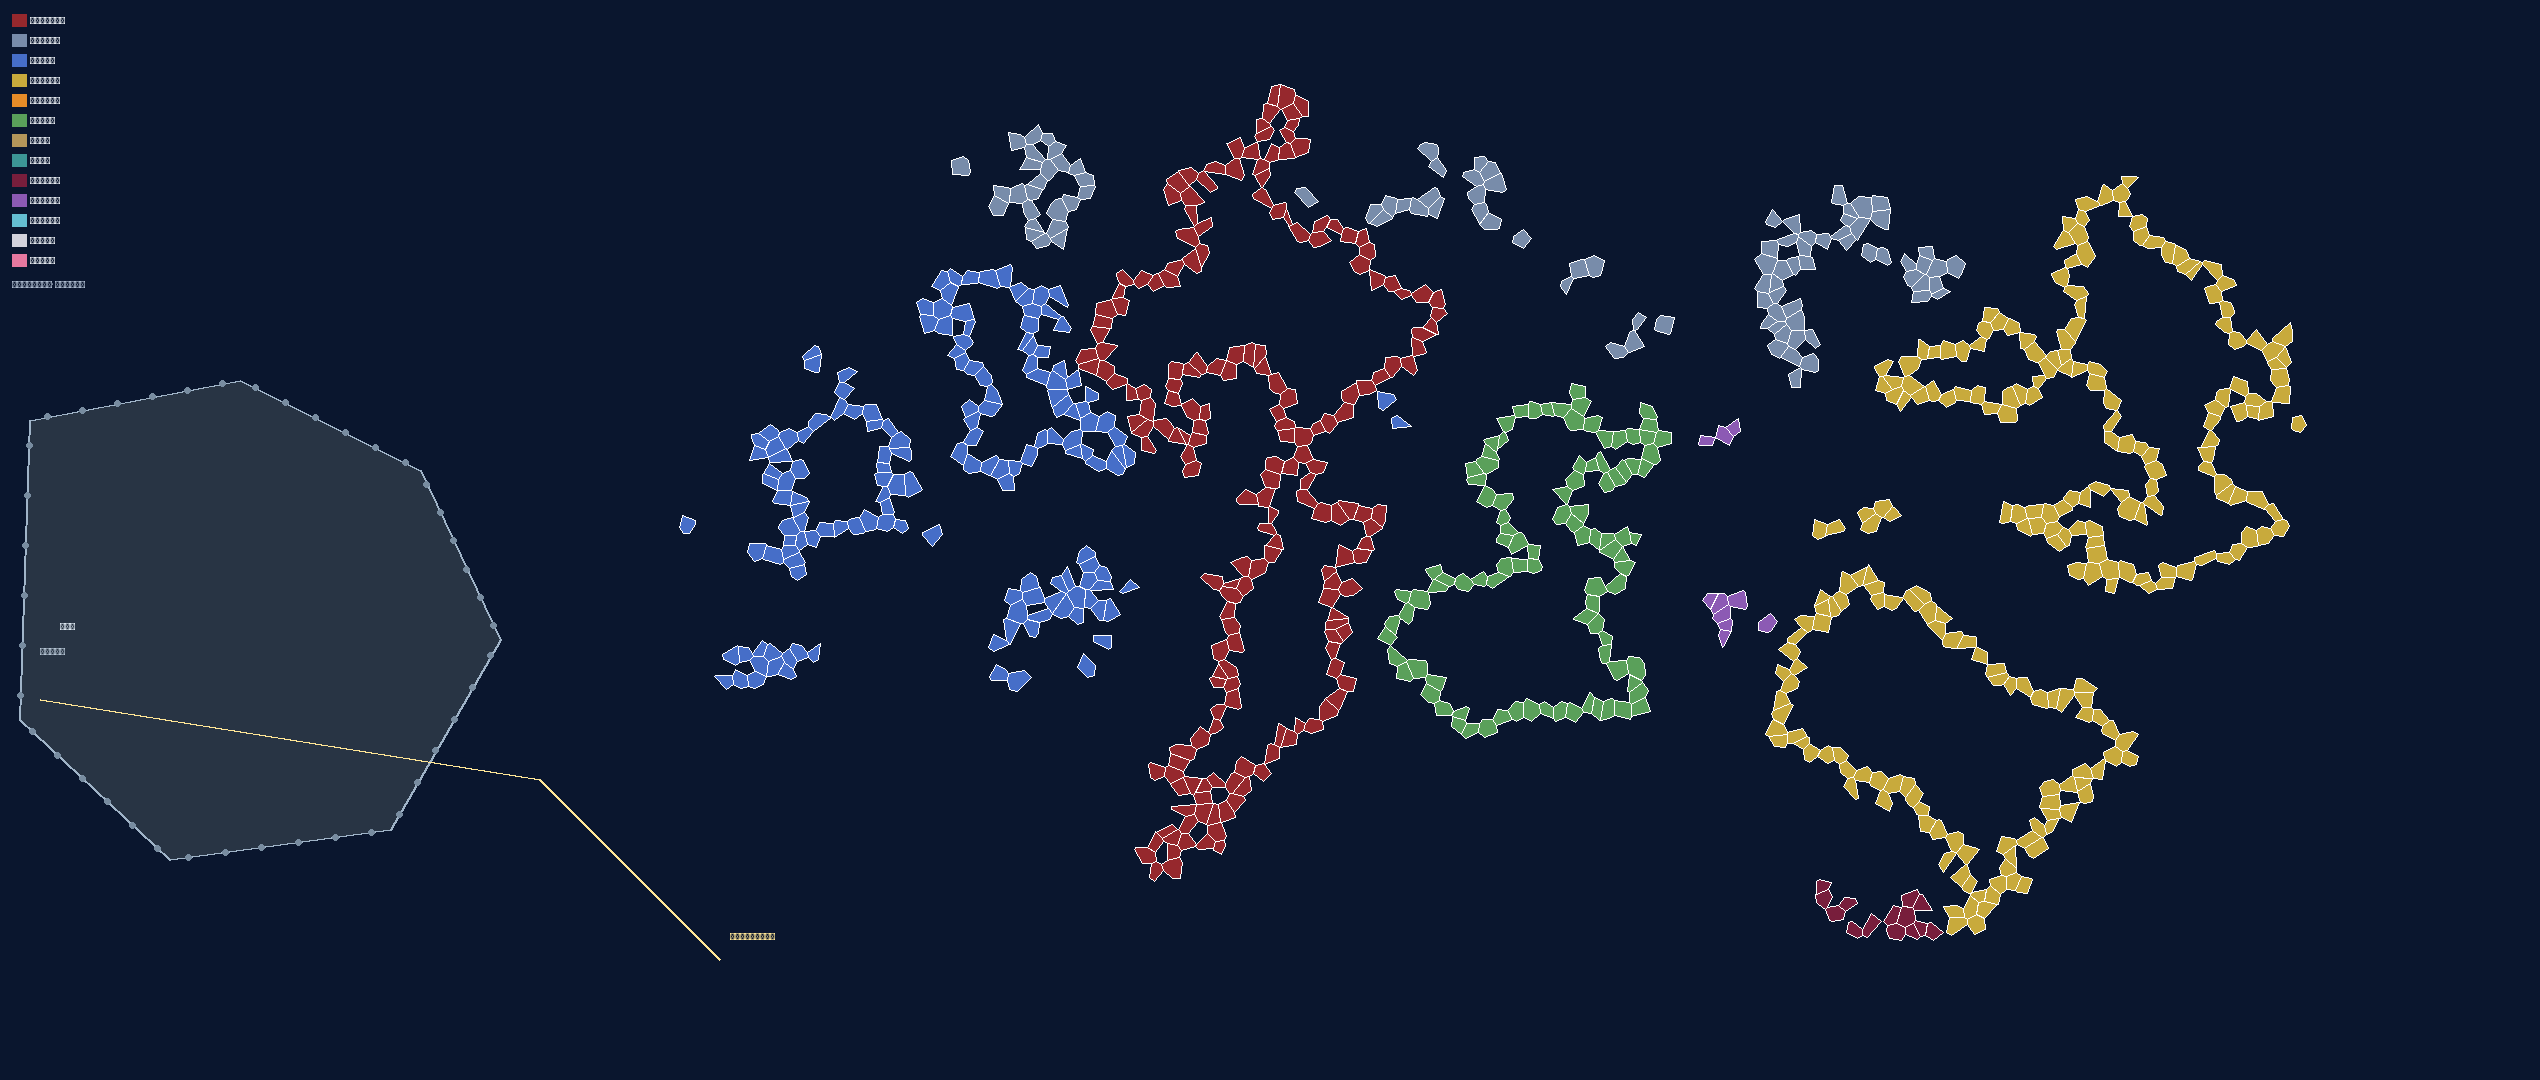
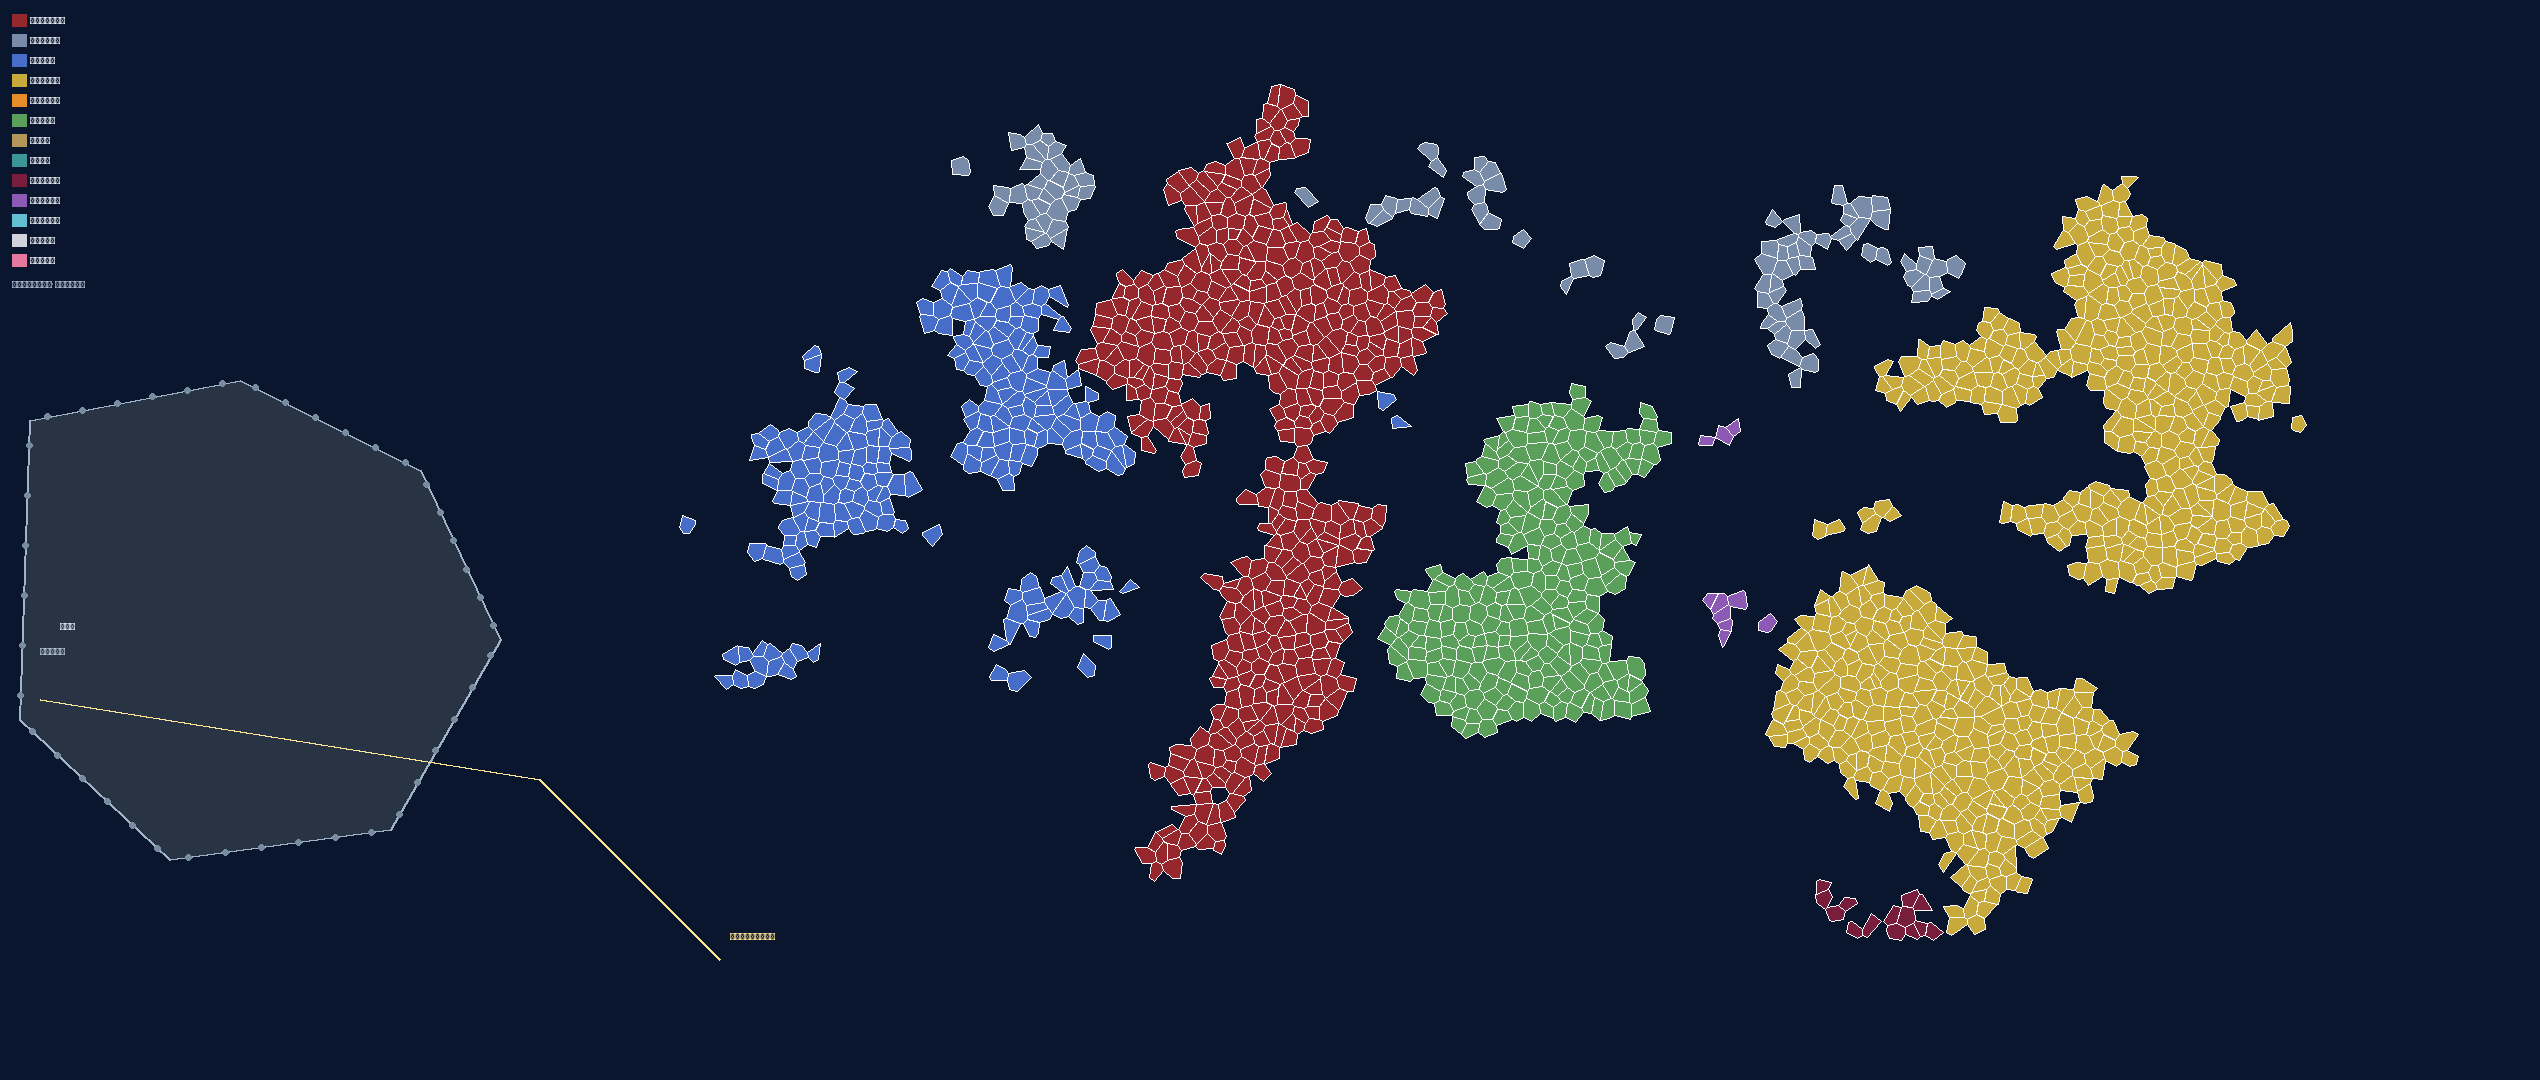
fix: 卡尔特地图重渲染——陆地判定改为海拔h>=20（陆地796→1789格），修复大空心/省份图空白；桌面已更新

diff --git a/grand_strategy/tools/render_kalte.py b/grand_strategy/tools/render_kalte.py
@@ -38,7 +38,7 @@ for c in cells:
     pts = [vxy(i) for i in c.get("v", [])]
     if len(pts) < 3:
         continue
-    if t > 0 or h > sea_max_h:
+    if h >= 20:  # 陆地：海拔 h>=20
         land += 1
         # 海拔上色：低=绿，中=黄褐，高=棕白
         if h > 60:
